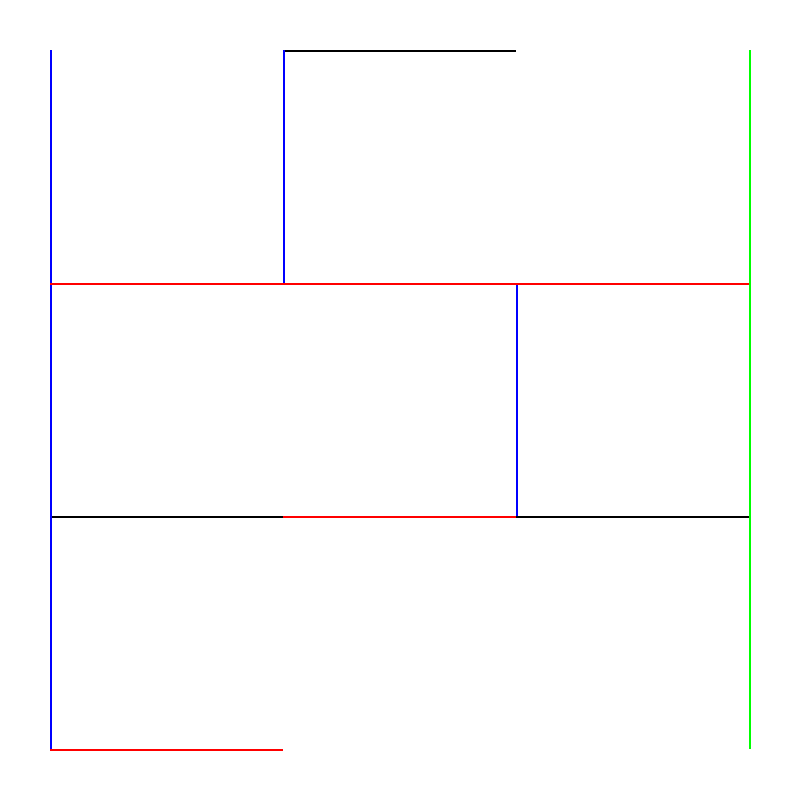
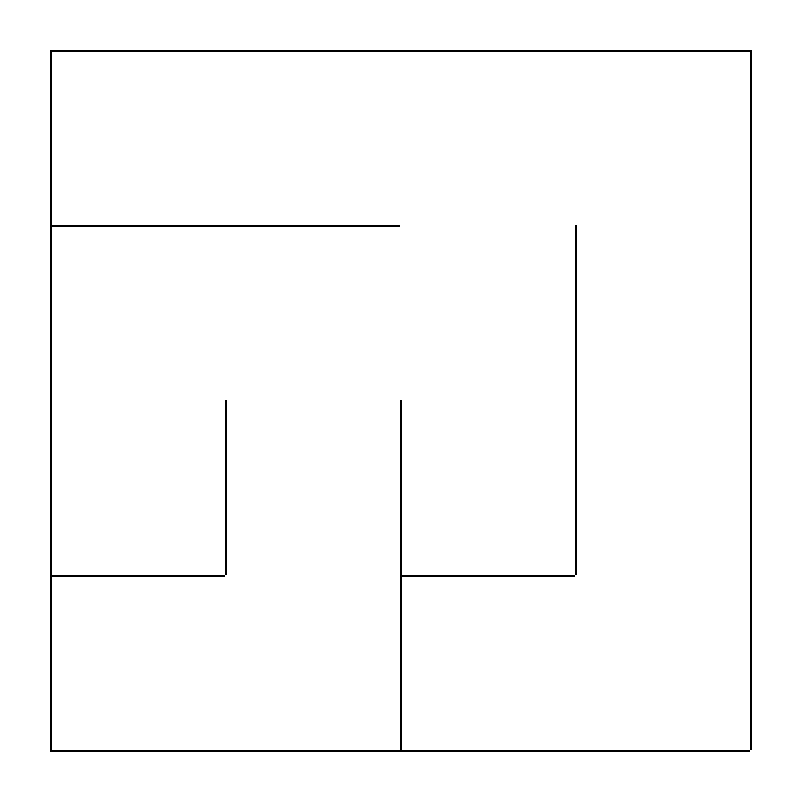
Saving files before merge back

diff --git a/src/main.rs b/src/main.rs
@@ -6,7 +6,7 @@ use maze::Grid;
 use maze::Maze;
 #[cfg(not(test))]
 fn main() {
-    let size = 3;
+    let size = 4;
     println!("blank");
     let maze = Maze::blank(size, size);
     maze.display();
@@ -15,6 +15,7 @@ fn main() {
     let mut grid = Grid::new(size, size);
     grid.init();
     maze::binary_tree::generate_grid(&mut grid);
+    // maze::binary_tree::generate_fixed_grid(&mut grid);
     grid.display();
     grid.render_ascii();
     grid.render_png(&"./binary_tree_grid.png".to_string());
